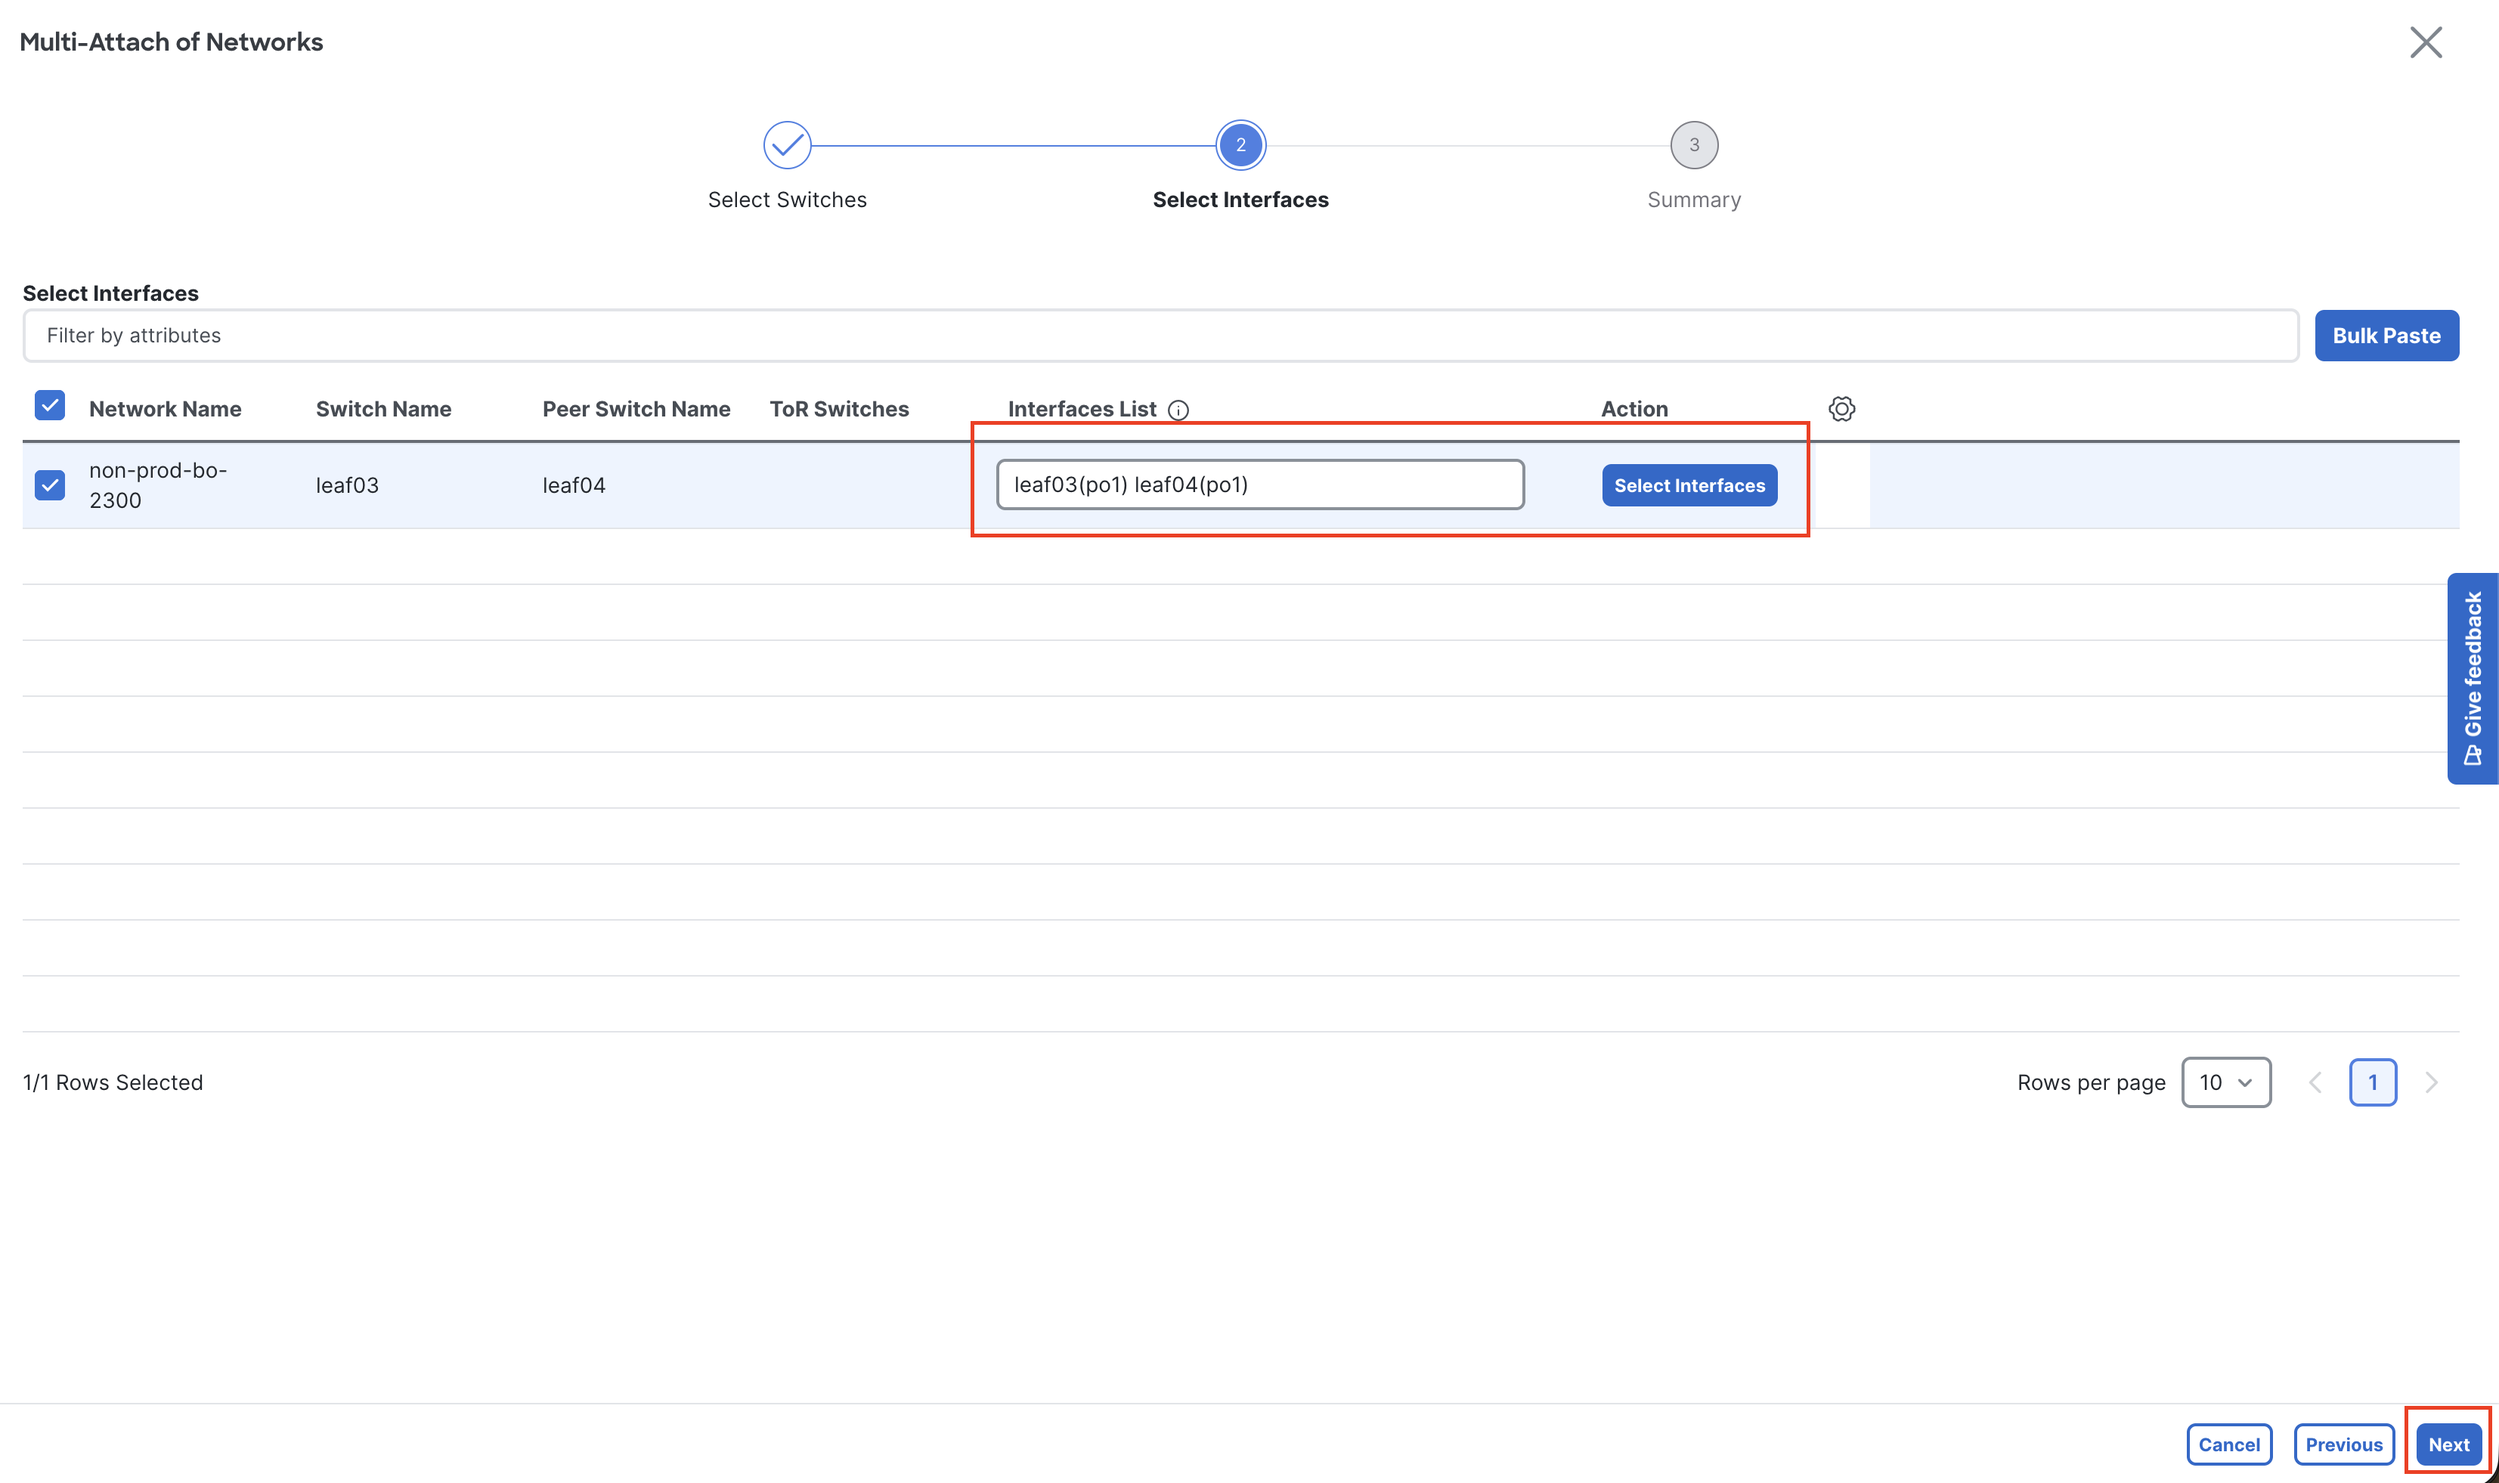
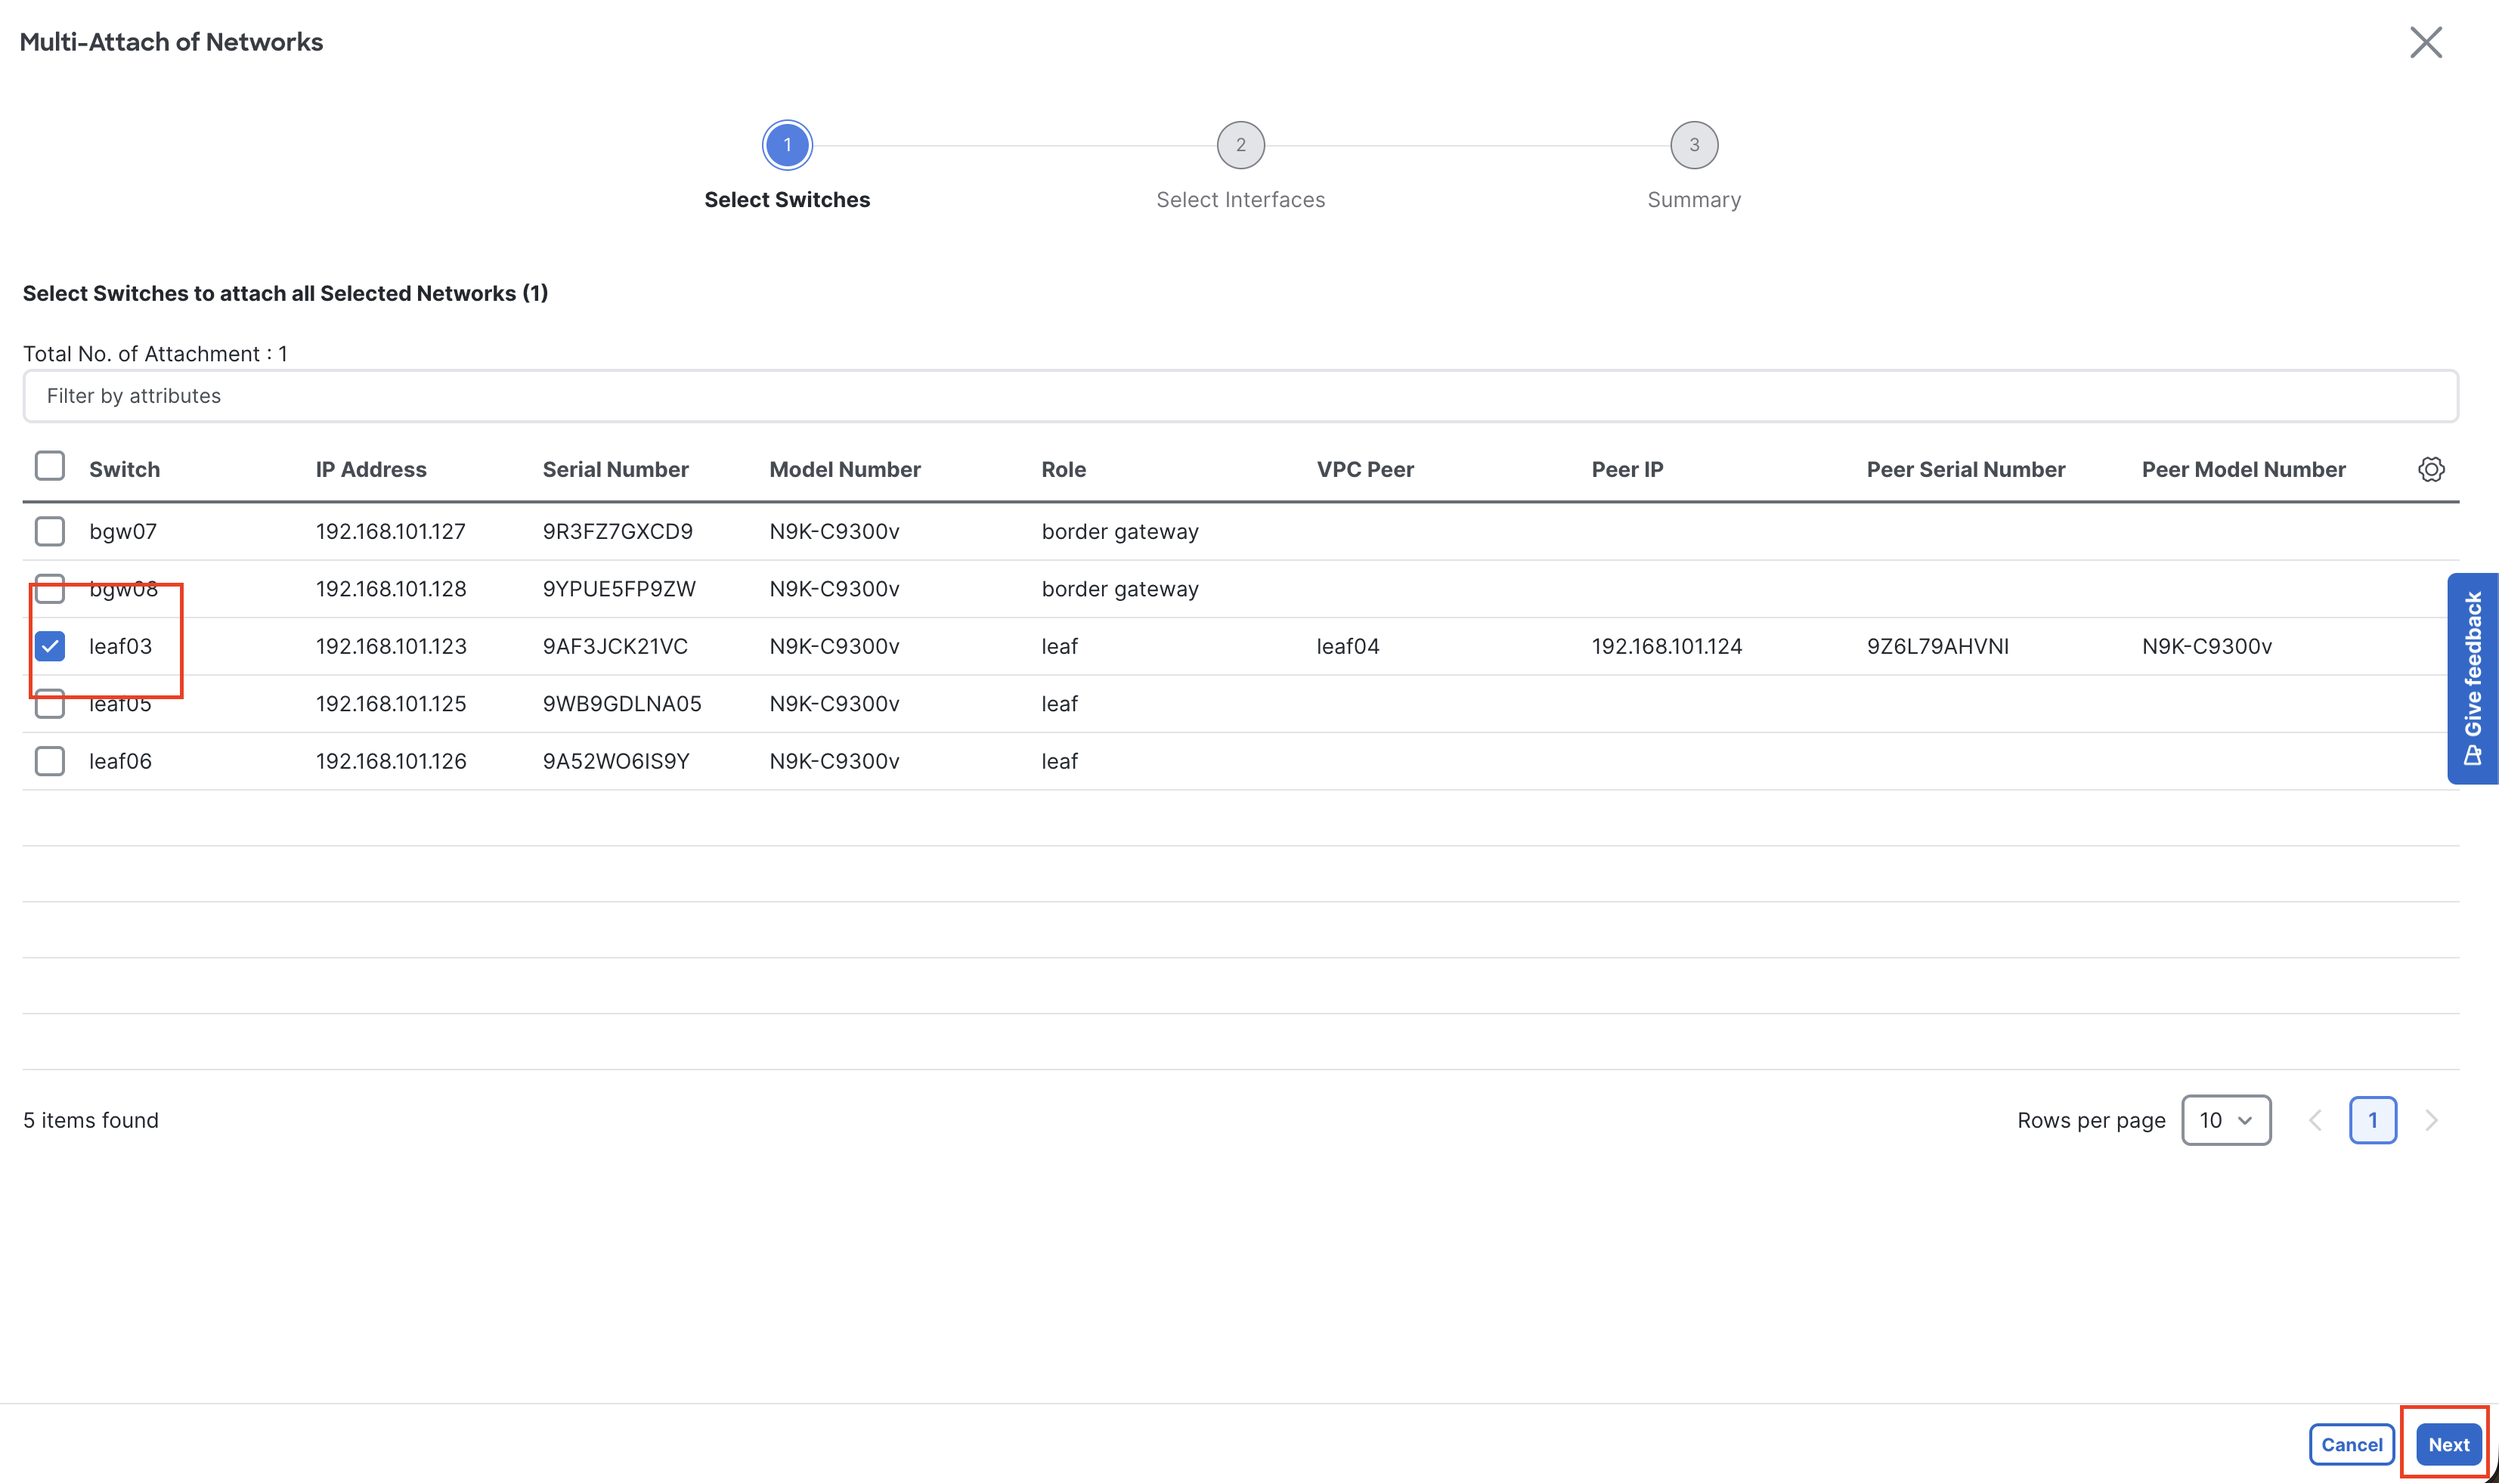
Adding bpduguard

diff --git a/ndfc/part-7/README.md b/ndfc/part-7/README.md
@@ -6,9 +6,11 @@ Single-sided vPC
 
 ![Mig vpc 2](https://github.com/meorkamalmeorsulaiman/evpn-vxlan/blob/ndfc-7/images/ndfc/7-mig-vpc-2.png)
 
-![Mig vpc 3](https://github.com/meorkamalmeorsulaiman/evpn-vxlan/blob/ndfc-7/images/ndfc/7-mig-vpc-3.png)
+![Mig vpc 3](https://github.com/meorkamalmeorsulaiman/evpn-vxlan/blob/ndfc-7/images/ndfc/7-mig-vpc-4.png)
 
 ![Mig vpc 4](https://github.com/meorkamalmeorsulaiman/evpn-vxlan/blob/ndfc-7/images/ndfc/7-mig-vpc-4.png)
 
 ![Mig vpc 5](https://github.com/meorkamalmeorsulaiman/evpn-vxlan/blob/ndfc-7/images/ndfc/7-mig-vpc-5.png)
+
+![Mig vpc 6](https://github.com/meorkamalmeorsulaiman/evpn-vxlan/blob/ndfc-7/images/ndfc/7-mig-vpc-6.png)
 
